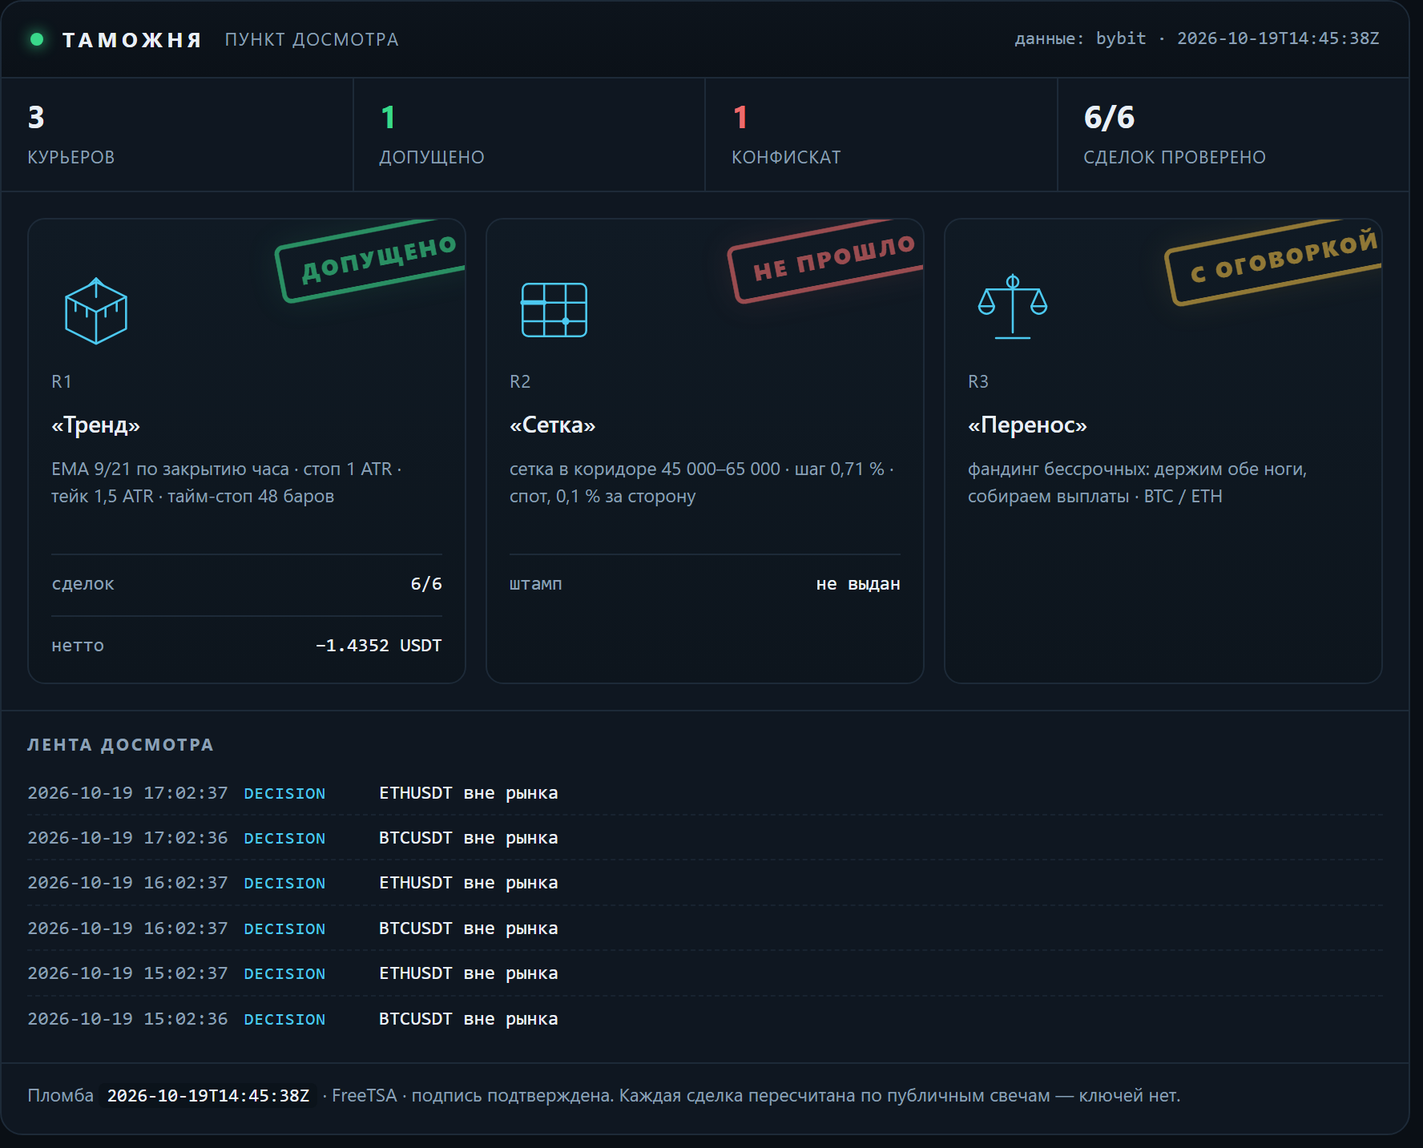
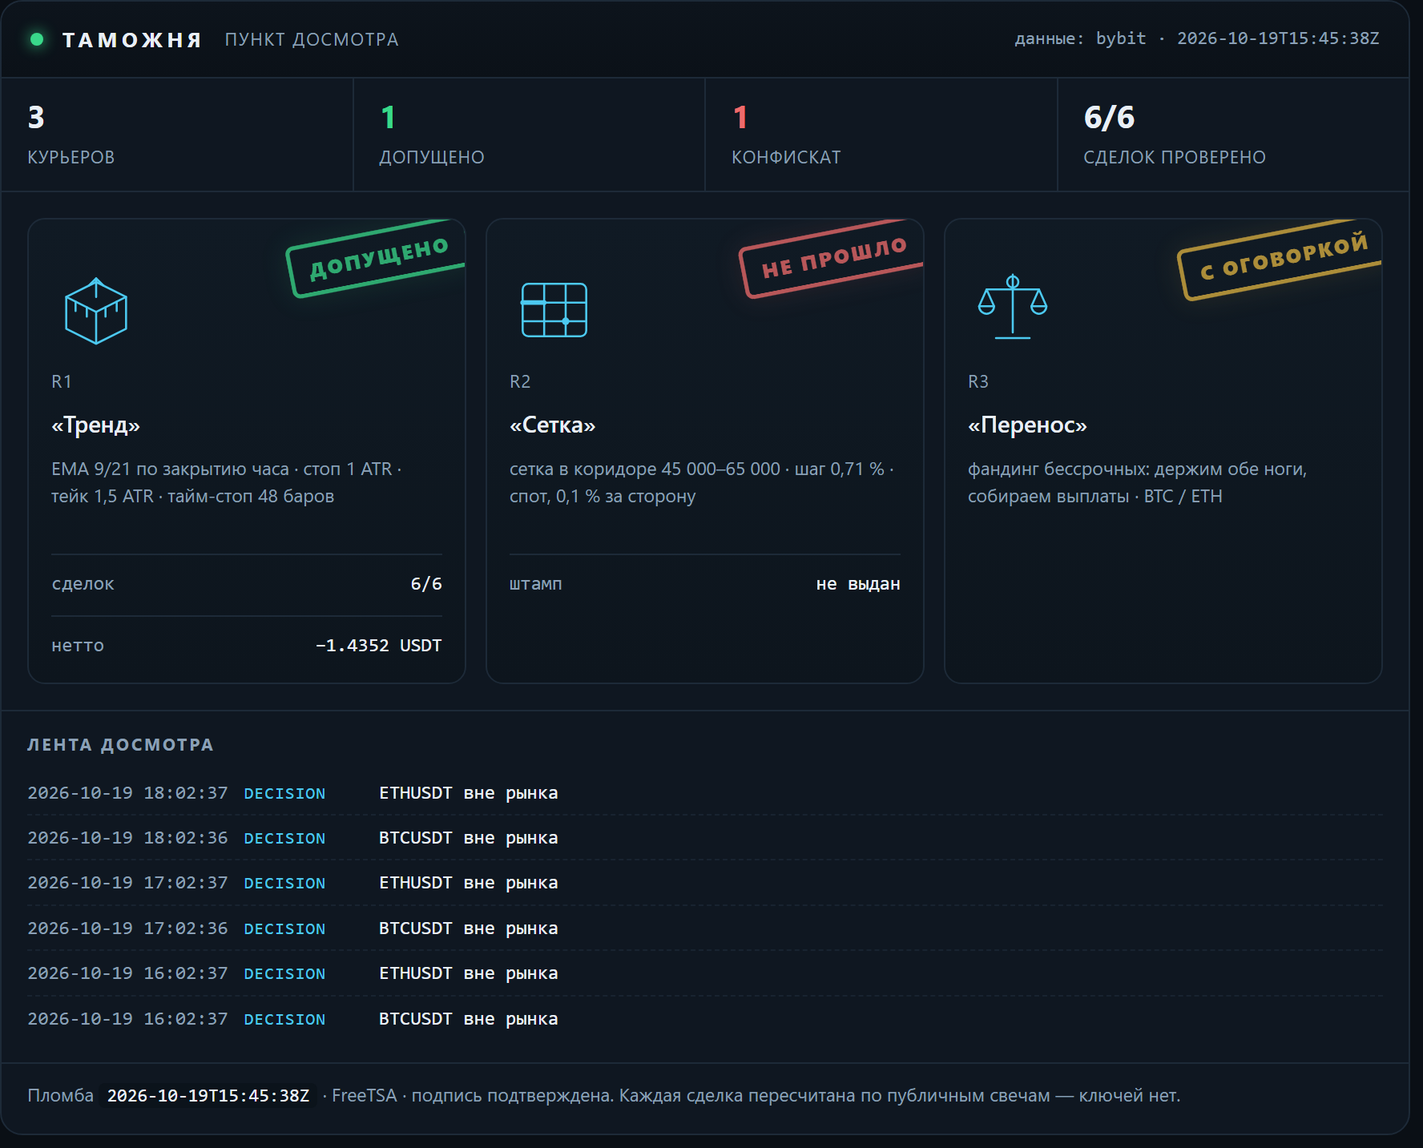
lab: таможня — свежие числа досмотра

Changed region(s): [[0.8052, 0.1842, 0.96, 0.2763], [0.4955, 0.1842, 0.6503, 0.2763], [0.1858, 0.1842, 0.3407, 0.2763]]

diff --git a/docs/customs.html b/docs/customs.html
@@ -16,7 +16,7 @@
   <h1><a href="index.html">Gramwright Lab</a></h1>
   <p>Журнал проверки торговых гипотез: что проверяли, что вышло по факту, сколько съели издержки. Числа берутся из журнала стенда. Не инвестиционная рекомендация.</p>
 </header>
-<h1>Таможня</h1><p class="intro">Пункт досмотра заявленных результатов. Стратегии приезжают с грузом обещаний, и каждая проходит проверку по публичным данным биржи: цены существуют, комиссии по тарифу, нетто сходится. Что прошло — получает штамп. Что не прошло — в конфискат, с причиной. Штамп означает «записи подлинные», а не «стратегия прибыльна».</p><p><img src="img/customs.png" alt="Терминал досмотра: три курьера, штампы, лента событий" style="width:100%;height:auto;border:1px solid var(--line);border-radius:10px"></p><p class="c-note">Сверху — тот же терминал, что собирается из журналов: счётчики, эмблемы курьеров, штампы и лента последних событий. Ниже — то же самое текстом, чтобы читалось с телефона и индексировалось поиском.</p><article><h2>R1 «Тренд» <span class="verdict">— <span class="c-ok">допущено</span></span></h2><p><strong>Правило:</strong> EMA 9/21 по закрытию часа · стоп 1 ATR · тейк 1,5 ATR · тайм-стоп 48 баров</p><p><strong>Декларация:</strong> Заявлено до прогона: держать 30 сделок, лимит нотионала 10 % от счёта, стоп дня −1 %. Прибыль не заявлялась — это важно: курьер не обещал доход.</p><p><strong>Проверено по публичным свечам, без ключей:</strong> 6 из 6 сделок. Сумма нетто −1.4352 USDT.</p><ul class="c-chk"><li class="y">BTCUSDT: нетто −0.8746 USDT · комиссии 0.0901 · проверено · с поправкой</li><li class="y">BTCUSDT: нетто −0.5441 USDT · комиссии 0.0896 · проверено</li><li class="y">ETHUSDT: нетто −0.2253 USDT · комиссии 0.0266 · проверено</li><li class="y">ETHUSDT: нетто −0.1513 USDT · комиссии 0.0265 · проверено</li><li class="y">ETHUSDT: нетто +0.1984 USDT · комиссии 0.0262 · проверено</li><li class="y">ETHUSDT: нетто +0.1617 USDT · комиссии 0.0260 · проверено</li></ul><p class="tags">журнал sha256 2237c1f58b8b30c3… · проверяльщик verify-1</p><p class="c-note">Штамп означает: записи подлинные, а не что стратегия прибыльна. Курьер в минусе, и минус тоже стоит на штампе — иначе это была бы не проверка, а реклама.</p><p class="tags">источник: verify-report.json</p></article><article><h2>R2 «Сетка» <span class="verdict">— <span class="c-bad">не прошло</span></span></h2><p><strong>Правило:</strong> сетка в коридоре 45 000–65 000 · шаг 0,71 % · спот, 0,1 % за сторону</p><p><strong>Декларация:</strong> Заявлено: «44 % урожая уходит бирже в виде комиссий». Кроме того — перевес над простым владением монетой.</p><p><strong>Что сошлось:</strong></p><ul class="c-chk"><li class="y">сами числа пересчитаны и воспроизводятся: коридор 45–65k был активен 23 % всей истории и 28 % последних двух лет</li></ul><p><strong>Что не сошлось:</strong></p><ul class="c-chk"><li class="n">44 % не подтвердилось: при шаге 0,71 % и тарифе 0,1 % комиссия съедает 28,3 % шага. Чтобы получить 44 %, нужен шаг 0,45 % — это около 80 уровней, а не 50</li><li class="n">от урожая доля комиссий 85,5 % за всю историю и 49,6 % за последние два года — тоже не 44 %</li><li class="n">перевес над владением посчитан на тарифе 0,055 %: при нём +1,32 п. п., на розничном 0,1 % — −0,72 п. п. То есть перевес исчезает</li><li class="n">семилетний тест стартовал в сентябре 2019 при биткоине около 10 000 — ниже коридора. Он говорит, что фиксированный коридор не подходит для периода, а не что сетка отстаёт</li></ul><p class="tags">источник: lab_grid.py, пересчёт 17.10.2026</p></article><article><h2>R3 «Перенос» <span class="verdict">— <span class="c-warn">с оговоркой</span></span></h2><p><strong>Правило:</strong> фандинг бессрочных: держим обе ноги, собираем выплаты · BTC / ETH</p><p><strong>Декларация:</strong> Заявлено: около 11,9 % в год от выплат фандинга при просадке выплатной кривой меньше 2 %.</p><p><strong>Что сошлось:</strong></p><ul class="c-chk"><li class="y">выплаты взяты из публичной истории биржи, ключей не нужно: BTC — 7 190 выплат с 25.03.2020, ETH — 6 561 с 21.10.2020</li><li class="y">сумма сходится: +83,4 % и +83,2 % за 6,6 и 6,0 года — те самые ~11,9 % в год</li><li class="y">худшая просадка выплатной кривой: −1,65 % и −1,97 %</li></ul><p><strong>Что не сошлось:</strong></p><ul class="c-chk"><li class="n">оговорка 1: премию сжали — 2021 год дал +38,3 %, 2026 — +1,96 %. Прошлое не повторяется</li><li class="n">оговорка 2: вход-выход стоит около 0,31 %, капитала нужно 1,2 от нотионала, текущий базис −0,082 % против входа</li><li class="n">оговорка 3: риск площадки. История FTX в этой же таблице выглядела так же прилично</li></ul><p class="tags">источник: публичная история фандинга Bybit, замер 17.10.2026</p></article><div class="c-conf"><h3>Конфискат</h3><p><strong>«Сетка»: заявленные 44 % комиссий не подтвердились.</strong> Досмотр показал 28,3 % от шага и 85,5 % от урожая — цифра хуже заявленной по форме, но лучше по смыслу: сетку убивает не размер шага, а то, что урожай почти весь уходит в комиссии. Это и вышло в выпуск — с поправкой, а не с красивой цифрой.</p></div><p class="c-note">Пломба: <code>2026-10-19T14:45:38Z</code> · нотариус FreeTSA · Oct 19 14:45:38 2026 GMT · подпись подтверждена. Манифест скрепляет отчёт проверки, журнал сделок и декларации курьеров: подменишь любую цифру — пломба перестанет сходиться.</p><p class="c-note">Досмотр идёт по публичным минутным свечам и публичной истории фандинга — ключей у проверяющего нет, и он может повторить проверку сам.</p><p class="c-note">Контент образовательный, не является инвестиционной рекомендацией. Торговля связана с риском потери капитала.</p>
+<h1>Таможня</h1><p class="intro">Пункт досмотра заявленных результатов. Стратегии приезжают с грузом обещаний, и каждая проходит проверку по публичным данным биржи: цены существуют, комиссии по тарифу, нетто сходится. Что прошло — получает штамп. Что не прошло — в конфискат, с причиной. Штамп означает «записи подлинные», а не «стратегия прибыльна».</p><p><img src="img/customs.png" alt="Терминал досмотра: три курьера, штампы, лента событий" style="width:100%;height:auto;border:1px solid var(--line);border-radius:10px"></p><p class="c-note">Сверху — тот же терминал, что собирается из журналов: счётчики, эмблемы курьеров, штампы и лента последних событий. Ниже — то же самое текстом, чтобы читалось с телефона и индексировалось поиском.</p><article><h2>R1 «Тренд» <span class="verdict">— <span class="c-ok">допущено</span></span></h2><p><strong>Правило:</strong> EMA 9/21 по закрытию часа · стоп 1 ATR · тейк 1,5 ATR · тайм-стоп 48 баров</p><p><strong>Декларация:</strong> Заявлено до прогона: держать 30 сделок, лимит нотионала 10 % от счёта, стоп дня −1 %. Прибыль не заявлялась — это важно: курьер не обещал доход.</p><p><strong>Проверено по публичным свечам, без ключей:</strong> 6 из 6 сделок. Сумма нетто −1.4352 USDT.</p><ul class="c-chk"><li class="y">BTCUSDT: нетто −0.8746 USDT · комиссии 0.0901 · проверено · с поправкой</li><li class="y">BTCUSDT: нетто −0.5441 USDT · комиссии 0.0896 · проверено</li><li class="y">ETHUSDT: нетто −0.2253 USDT · комиссии 0.0266 · проверено</li><li class="y">ETHUSDT: нетто −0.1513 USDT · комиссии 0.0265 · проверено</li><li class="y">ETHUSDT: нетто +0.1984 USDT · комиссии 0.0262 · проверено</li><li class="y">ETHUSDT: нетто +0.1617 USDT · комиссии 0.0260 · проверено</li></ul><p class="tags">журнал sha256 fa88fa2a3ffee0dc… · проверяльщик verify-1</p><p class="c-note">Штамп означает: записи подлинные, а не что стратегия прибыльна. Курьер в минусе, и минус тоже стоит на штампе — иначе это была бы не проверка, а реклама.</p><p class="tags">источник: verify-report.json</p></article><article><h2>R2 «Сетка» <span class="verdict">— <span class="c-bad">не прошло</span></span></h2><p><strong>Правило:</strong> сетка в коридоре 45 000–65 000 · шаг 0,71 % · спот, 0,1 % за сторону</p><p><strong>Декларация:</strong> Заявлено: «44 % урожая уходит бирже в виде комиссий». Кроме того — перевес над простым владением монетой.</p><p><strong>Что сошлось:</strong></p><ul class="c-chk"><li class="y">сами числа пересчитаны и воспроизводятся: коридор 45–65k был активен 23 % всей истории и 28 % последних двух лет</li></ul><p><strong>Что не сошлось:</strong></p><ul class="c-chk"><li class="n">44 % не подтвердилось: при шаге 0,71 % и тарифе 0,1 % комиссия съедает 28,3 % шага. Чтобы получить 44 %, нужен шаг 0,45 % — это около 80 уровней, а не 50</li><li class="n">от урожая доля комиссий 85,5 % за всю историю и 49,6 % за последние два года — тоже не 44 %</li><li class="n">перевес над владением посчитан на тарифе 0,055 %: при нём +1,32 п. п., на розничном 0,1 % — −0,72 п. п. То есть перевес исчезает</li><li class="n">семилетний тест стартовал в сентябре 2019 при биткоине около 10 000 — ниже коридора. Он говорит, что фиксированный коридор не подходит для периода, а не что сетка отстаёт</li></ul><p class="tags">источник: lab_grid.py, пересчёт 17.10.2026</p></article><article><h2>R3 «Перенос» <span class="verdict">— <span class="c-warn">с оговоркой</span></span></h2><p><strong>Правило:</strong> фандинг бессрочных: держим обе ноги, собираем выплаты · BTC / ETH</p><p><strong>Декларация:</strong> Заявлено: около 11,9 % в год от выплат фандинга при просадке выплатной кривой меньше 2 %.</p><p><strong>Что сошлось:</strong></p><ul class="c-chk"><li class="y">выплаты взяты из публичной истории биржи, ключей не нужно: BTC — 7 190 выплат с 25.03.2020, ETH — 6 561 с 21.10.2020</li><li class="y">сумма сходится: +83,4 % и +83,2 % за 6,6 и 6,0 года — те самые ~11,9 % в год</li><li class="y">худшая просадка выплатной кривой: −1,65 % и −1,97 %</li></ul><p><strong>Что не сошлось:</strong></p><ul class="c-chk"><li class="n">оговорка 1: премию сжали — 2021 год дал +38,3 %, 2026 — +1,96 %. Прошлое не повторяется</li><li class="n">оговорка 2: вход-выход стоит около 0,31 %, капитала нужно 1,2 от нотионала, текущий базис −0,082 % против входа</li><li class="n">оговорка 3: риск площадки. История FTX в этой же таблице выглядела так же прилично</li></ul><p class="tags">источник: публичная история фандинга Bybit, замер 17.10.2026</p></article><div class="c-conf"><h3>Конфискат</h3><p><strong>«Сетка»: заявленные 44 % комиссий не подтвердились.</strong> Досмотр показал 28,3 % от шага и 85,5 % от урожая — цифра хуже заявленной по форме, но лучше по смыслу: сетку убивает не размер шага, а то, что урожай почти весь уходит в комиссии. Это и вышло в выпуск — с поправкой, а не с красивой цифрой.</p></div><p class="c-note">Пломба: <code>2026-10-19T15:45:38Z</code> · нотариус FreeTSA · Oct 19 15:45:38 2026 GMT · подпись подтверждена. Манифест скрепляет отчёт проверки, журнал сделок и декларации курьеров: подменишь любую цифру — пломба перестанет сходиться.</p><p class="c-note">Досмотр идёт по публичным минутным свечам и публичной истории фандинга — ключей у проверяющего нет, и он может повторить проверку сам.</p><p class="c-note">Контент образовательный, не является инвестиционной рекомендацией. Торговля связана с риском потери капитала.</p>
 <footer class="site">
   Код стенда и аудитора: <a href="https://github.com/XSlaidx/truth-engine">XSlaidx/truth-engine</a>
   &middot; <a href="graveyard.html">кладбище правил</a>
